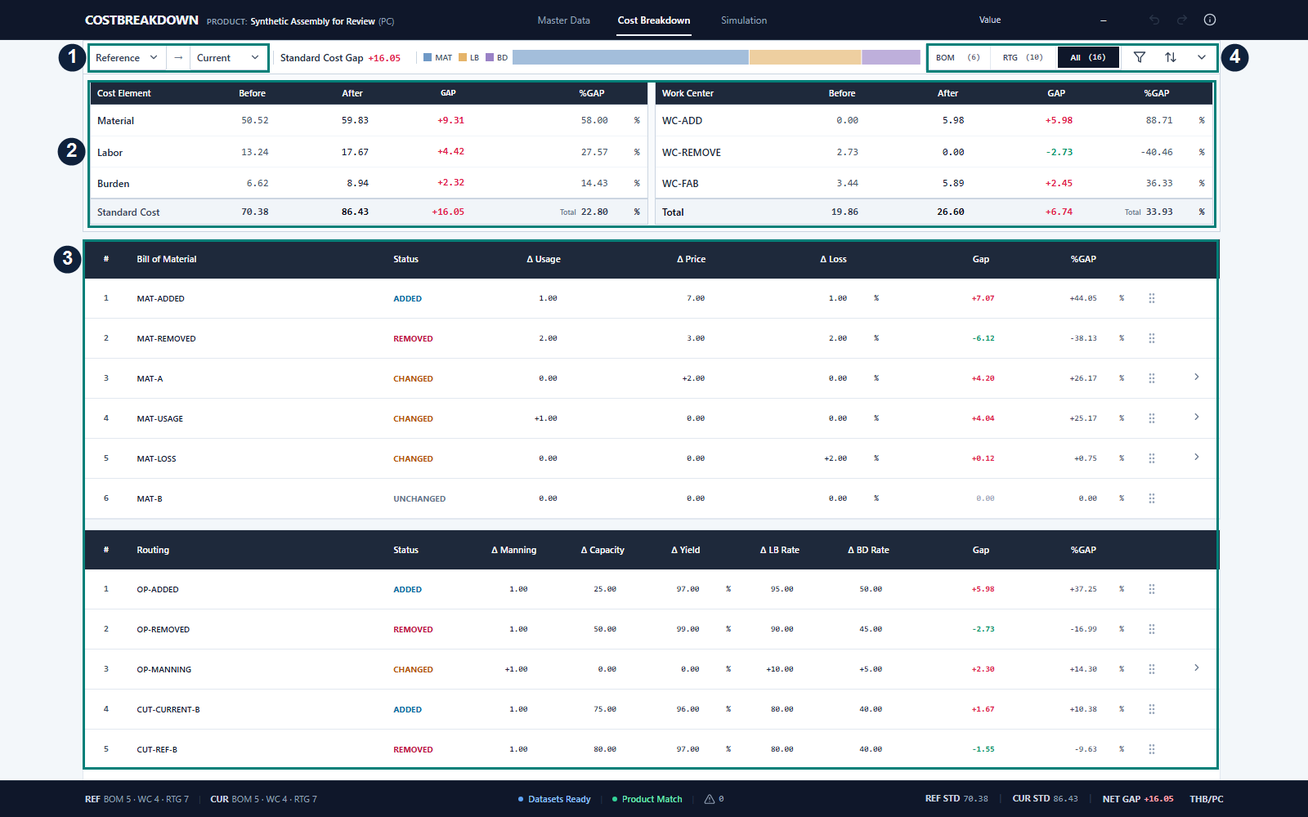
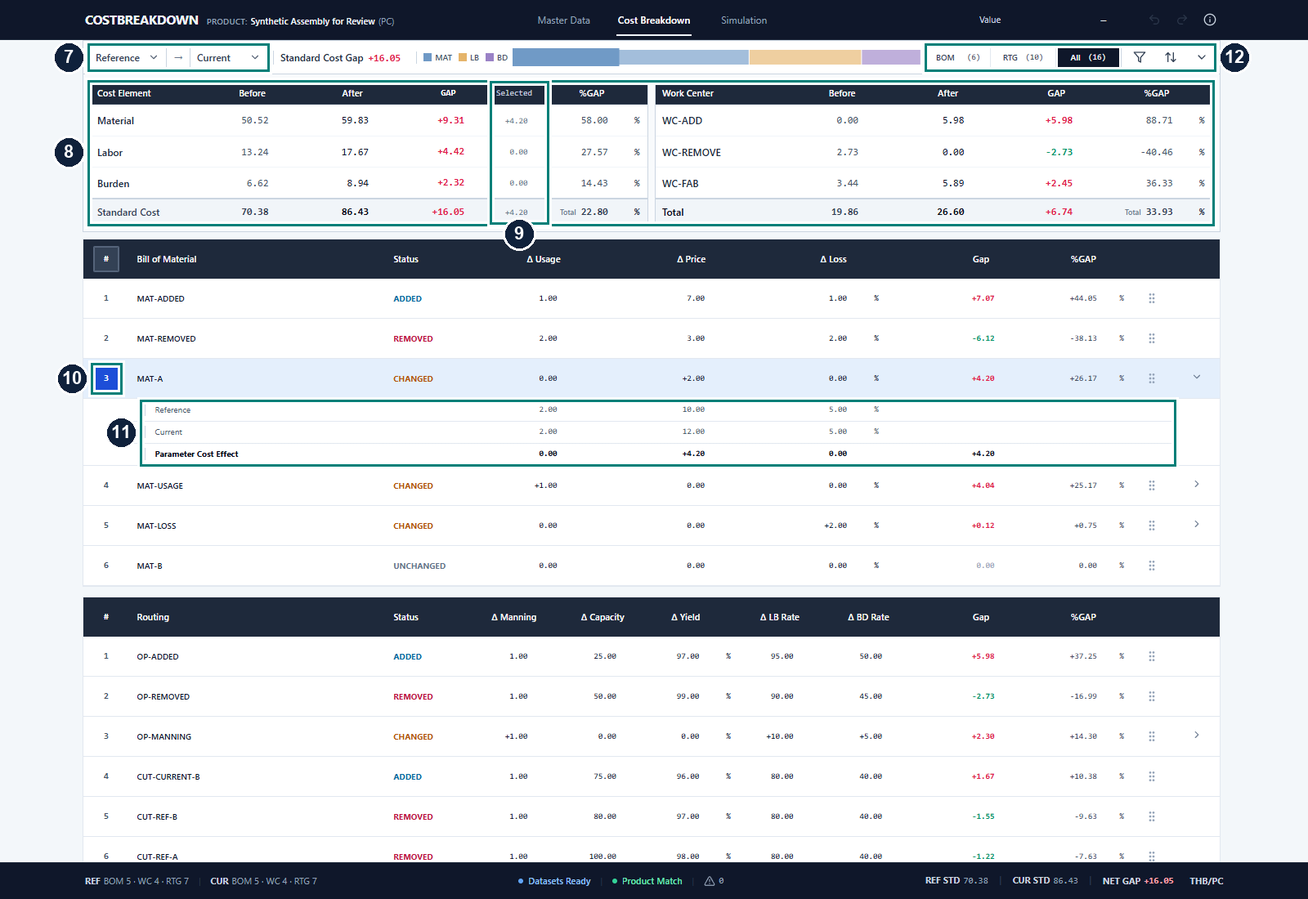
wip: documentation polish handoff

diff --git a/USER_GUIDE.md b/USER_GUIDE.md
@@ -1,192 +1,172 @@
 # COSTBREAKDOWN user guide
 
-Prepare your datasets, explain a cost difference, or test a proposed change. Use this guide for the task you are doing now.
+Prepare your data, choose an analysis, then keep the inputs you need.
 
-Screenshots use fictional example datasets. Open an image to view it at full size.
+[Master Data](#prepare-your-data) · [Cost Breakdown](#explain-a-cost-change) · [Simulation](#try-a-change) · [Keep your work](#keep-your-work)
 
-[Start](#start-and-finish-a-session) · [Prepare data](#prepare-your-datasets) · [Resolve issues](#resolve-warnings-and-blockers) · [Compare costs](#explain-a-cost-difference) · [Simulate](#try-a-what-if-scenario) · [Save and Export](#keep-your-work) · [Troubleshooting](#troubleshooting)
+Screenshots show the real app with example data. Numbers match the notes below each image. Open an image at full size to read small controls.
 
-## Start and finish a session
+## Open the app
 
-Extract the complete package, open your operating system's folder, and use **Start COSTBREAKDOWN**. Keep the package folders together. The launcher opens the app in your browser; starting the same package again reuses its running server.
+Extract the complete ZIP into a folder of your choice. Keep all package folders together.
 
-Choose a work area from the top navigation:
+- `Windows/`: open **Start COSTBREAKDOWN.exe**. Finish with **Stop COSTBREAKDOWN.exe**.
+- `macOS/`: open **Start COSTBREAKDOWN.app**. Finish with **Stop COSTBREAKDOWN.app**.
+- `Linux/`: open **Start COSTBREAKDOWN.desktop**. Finish with **Stop COSTBREAKDOWN.desktop**.
 
-| Work area | Use it for |
+Start opens the browser. Starting the same package again reuses its server. Closing a browser tab alone does not stop it.
+
+The Linux `.desktop` files are launchers. You can leave them in the package folder.
+
+## Prepare your data
+
+Open **Master Data**. Choose the dataset that should receive your changes before editing or importing.
+
+![Master Data in Edit mode with two BOM rows selected, a numeric field focused, and dataset controls visible.](docs/images/master-data.png)
+
+| Marker | What to do |
 |---|---|
-| Master Data | Prepare the inputs used by the analyses. |
-| Cost Breakdown | Explain the difference between two datasets. |
-| Simulation | Test proposed parameter changes and economic assumptions. |
+| 1 | Choose Reference, Current, or Custom. Each holds its own data. |
+| 2 | Use View/Edit and the dataset actions. Hover over an icon to see its name. |
+| 3 | Search rows. Choose BOM, WC, RTG, or All to change the table view. |
+| 4 | Select row numbers for group actions in Edit mode. Rows 1 and 3 are selected here. |
+| 5 | Use Value to preview supported numbers or edit the focused numeric field. |
+| 6 | Open Prepare Dataset to check readiness, warnings, and blockers. |
 
-Before ending a browser session, [export important datasets](#keep-your-work). Use the matching **Stop COSTBREAKDOWN** launcher from the same package when finished. Stop does not export data; closing a tab alone does not stop the server.
+Reference can hold your baseline, Current your latest inputs, and Custom an alternative. You can compare any two datasets.
 
-## Prepare your datasets
+### Enter data or use Excel
 
-### Choose where the data belongs
+Select the pencil for Edit mode. Enter the product details, then fill the tables:
 
-In **Master Data**, select **Reference**, **Current**, or **Custom** before editing or importing. Each is an independent dataset. A useful starting arrangement is an agreed baseline in Reference, the latest data in Current, and an alternative in Custom. Custom has no fixed business status.
-
-![Master Data: dataset choices at marker 1, View/Edit at 2, dataset actions at 3, search and table filters at 4, and editable tables at 5.](docs/images/master-data.png)
-
-Select the pencil control for **Edit** mode. Enter product information and work through the tables:
-
-| Table | Inputs to prepare |
+| Table | Inputs |
 |---|---|
 | BOM | Material, Usage, Unit, Price, and Loss. |
-| Work Centers (WC) | Work Center identity, Labor Rate, and Burden Rate. |
-| Routing (RTG) | Process, its Work Center, Manning, Capacity, and Yield. |
+| Work Centers (WC) | Work Center, Labor Rate, and Burden Rate. |
+| Routing (RTG) | Process, Work Center, Manning, Capacity, and Yield. |
 
-Routing must link to the intended Work Center in the same dataset. Use notes for context, search to find rows, and BOM / WC / RTG / All to control which tables are shown. You can add, delete, and reorder rows in Edit mode.
+Each Routing Work Center must refer to the intended center in the same dataset.
 
-### Start from another dataset
+To start from Excel:
 
-Select the **destination** dataset, open **Clone from**, and choose the source. For example, select Custom and clone from Current to prepare an alternative.
+1. Open **Sizing**, set the row counts, and choose **Download Template**.
+2. Fill the workbook in Excel. Keep the required sheets and headings.
+3. Select the destination dataset in Master Data and open **Import**.
+4. Choose your `.xlsx` file. Review its status, row counts, and warnings.
+5. Choose **Import** to apply a valid workbook. Selecting a file alone does not replace data.
 
-Clone replaces the destination's current **Working** values. Its **Last Saved** checkpoint stays unchanged. Review the destination before continuing.
+Import replaces the destination's Working data. Invalid workbooks cannot be applied. Expand **Import warnings** to read a long list.
 
-### Bring data in from Excel
+**Apply Sizing** changes row counts in Master Data. Download Template uses the form's counts without requiring Apply Sizing first. Limits are BOM 1,000, Work Centers 500, and Routing 500. Reducing counts removes rows from the end, so check your data first.
 
-1. Open **Sizing** in Master Data. Set the BOM, Work Center, and Routing row counts.
-2. Choose **Download Template**, then fill the workbook in Excel. Keep the required sheets and headings intact.
-3. Return to Master Data and select the **destination** dataset.
-4. Open **Import**, choose a compatible `.xlsx` file, and review the workbook summary and warnings.
-5. Choose **Import** in the dialog to apply a valid workbook. Selecting the file alone does not replace your data.
+To copy existing data, select the destination, open **Clone from**, and choose the source. For example, clone Current into Custom to prepare an alternative. Clone replaces the destination's Working data.
 
-![Import dialog showing the destination dataset and the area for choosing an Excel workbook.](docs/images/import.png)
+You can add, delete, and reorder rows in Edit mode. Selecting rows supports group actions; it does not limit analysis or Export.
 
-Import replaces the selected dataset's Working values and leaves Last Saved unchanged. An invalid workbook cannot be applied. If the warning list is long, expand **Import warnings** and scroll within it.
+### Check the data
 
-You can also use **Apply Sizing** to change row counts directly in Master Data. Download Template uses the counts in the form without requiring Apply Sizing first. The limits are **BOM 1,000**, **Work Centers 500**, and **Routing 500** rows. Review existing data before reducing a table's size. [View the Sizing dialog](docs/images/sizing.png).
+Open **i**, then expand a Warning or Blocker category. Select an affected location to reach its dataset, table, row, and field.
 
-## Resolve warnings and blockers
+- **Warnings:** review generated names and renamed duplicates.
+- **Blockers:** fill the required inputs identified by the issue.
 
-Open the header **i** button to view **Prepare Dataset**. Select a dataset row to filter its issues, then expand a Warning or Blocker category.
+The readiness indicator concerns Reference and Current. Custom's issues do not determine that pair's readiness. Check Product Match / Product Mismatch before comparing.
 
-![Prepare Dataset: the header i button at marker 1, dataset readiness at 2, and expandable issue categories at 3.](docs/images/prepare-dataset.png)
+**Saved** means Working matches Last Saved. **Draft** means it differs, or no checkpoint exists. These labels describe the checkpoint state, not whether the inputs are complete.
 
-| Issue | What to check |
+### Read and edit numbers
+
+Numbers may be shortened or use scientific notation. Hover over a supported number to preview it in **Value**. Click a read-only number to pin or unpin it.
+
+Focus an editable numeric field to see its input value. You can also edit that field through Value. Display formatting does not change stored values.
+
+## Explain a cost change
+
+Open **Cost Breakdown**. The default pair is Before = Reference and After = Current. Analysis uses current Master Data Working values, including unsaved edits.
+
+![Cost Breakdown with MAT-A selected, its Selected contribution visible, and its parameter details expanded.](docs/images/cost-breakdown.png)
+
+| Marker | What to do |
 |---|---|
-| Generated identity | A row received a generated name. Confirm that it identifies the intended material, Work Center, or process. |
-| Auto-renamed duplicate | A duplicate name was renamed. Check whether the rows represent distinct items and give them appropriate identities. |
-| Missing required value | Enter the required data shown by the Blocker. |
+| 7 | Choose Before and After. Either can use any of the three datasets. |
+| 8 | Read the cost overview and Work Center contributions. |
+| 9 | Read Selected beside the full Gap to see the contribution of chosen findings. |
+| 10 | Select a BOM or Routing row number. Select it again to remove it from the focus. |
+| 11 | Expand a CHANGED row to compare its inputs and Parameter Cost Effects. |
+| 12 | Choose BOM, RTG, or All. Filter and sort to find the rows you need. |
 
-Select an affected location to open the correct dataset and table, select the row, and focus the target field. Correct it in Edit mode, then review the issue list again. [See a field reached through an issue](docs/images/jump-to-field.png).
+**Standard Cost Gap = After − Before.** A positive Gap means After costs more. A negative Gap means it costs less.
 
-The overall readiness indicator concerns **Reference and Current**. Custom's issues are shown but do not determine that pair's readiness. Warnings call for review; Blockers can keep the pair from being ready. Check **Product Match / Product Mismatch** to confirm that you are comparing the intended product.
+In this example, the full Gap is **+16.05**. MAT-A contributes **+4.20**, caused by its Price changing from **10.00** to **12.00**. Selecting more findings combines their contributions while the full Gap stays visible.
 
-## Explain a cost difference
+For CHANGED rows, parameter columns show After minus Before. ADDED and REMOVED rows show values from the side where they exist. UNCHANGED rows have no business change.
 
-Open **Cost Breakdown** and choose **Before** and **After**. The default is **Reference → Current**; either side can use any of the three datasets. Analysis uses the latest Master Data **Working** values, so you can compare edits before saving a checkpoint.
+Changing the comparison pair or its source data clears the selected findings. Selected Comparison belongs to Cost Breakdown; it does not change data or control Simulation.
 
-**Standard Cost Gap = After − Before.** A positive Gap means After costs more; a negative Gap means it costs less. Standard Cost combines Material, Labor, and Burden.
+## Try a change
 
-Read the cost overview, then use the BOM and Routing findings to locate the contributors. The Work Center panel supplies conversion-cost context. Filter by table or status, and sort the findings as needed.
+Open **Simulation** to test a proposal. To test a copy of Current, clone it into Custom in Master Data first.
 
-Findings are marked **ADDED**, **REMOVED**, **CHANGED**, or **UNCHANGED**. Expand a changed finding to inspect Before, After, and **Parameter Cost Effect** details.
+A new Simulation starts with Custom active and Result set to Current → Custom.
 
-### Focus on a few findings
+![Simulation with Custom active, a changed BOM Price, and action costs and Batch Size entered.](docs/images/simulation.png)
 
-Select a numbered row button on the left of a BOM or Routing finding. The overview shows its **Selected** contribution beside the full Gap. Select more findings to study them together; select a row again to remove it from the focus.
-
-![Selected Comparison: marker 1 selects a finding; marker 2 shows its contribution beside the full Gap.](docs/images/selected-comparison.png)
-
-Here, the selected finding contributes **+4.20** to the full **+16.05** Standard Cost Gap. The full comparison remains visible.
-
-Changing the Before/After pair or its Working data clears the selected membership. Selected Comparison belongs to Cost Breakdown. It does not change Master Data or control Simulation.
-
-## Try a what-if scenario
-
-For a separate proposal, a useful starting point is **Master Data → Custom → Clone from → Current**. Then open **Simulation**. Simulation initially has **Custom active** and compares **Current → Custom** in Result.
-
-![Simulation: active dataset beneath Cost Structure at marker 1, Result comparison at 2, BOM and Routing parameters at 3 and 4, assumptions at 5, and Send/Reset at 6.](docs/images/simulation.png)
-
-### Choose the workspace and the comparison
-
-| Control | What it determines |
+| Marker | What to do |
 |---|---|
-| Underlined dataset beneath Cost Structure | The active dataset for editing, Send, and Reset. |
-| Before / After in Result | The two scenarios displayed in Result. |
+| 13 | Choose the active dataset below Cost Structure. The underlined dataset is used for editing, Send, and Reset. |
+| 14 | Choose the Before and After scenarios displayed in Result. |
+| 15 | Read Cost Structure. Use its legend to show or hide components; Show all restores them. |
+| 16 | Try BOM Price, Usage, and Loss, or Routing Manning, Capacity, and Yield. Expand rows for effect details. |
+| 17 | Set Selling Price, SG&A, action costs, and Batch Size for profit and break-even analysis. |
+| 18 | Send the active proposal to Master Data, or Reset that scenario. |
 
-Selecting a dataset beneath Cost Structure also sets Result's After dataset. You can then change the Result pair independently. **Send still follows the underlined active dataset**, even if Result's After selector shows another role.
+Choosing an active dataset also sets Result's After. You can then change the Result pair separately. **Send follows the active dataset, even when Result's After shows another dataset.**
 
-### Change the proposal and read the result
+Here, Custom's MAT-A Price is **11.00**, compared with **12.00** in its Master Data inputs. Result shows how the proposal changes cost and profit. Break-even compares cumulative parameter savings with total action cost across production quantities.
 
-Edit **BOM Price, Usage, and Loss**, or **Routing Manning, Capacity, and Yield**. Work Center rates, identities, and table structure are changed in Master Data. Simulation row statuses compare the active scenario with that role's Master Data basis.
+Select rows to bring them to the top of the scenario table. This does not filter Result or limit Send.
 
-Use the Business and Economic panel for **Selling Price**, **SG&A %**, **Variable Action Cost**, **Fixed Action Cost**, and **Batch Size**. These assumptions are used only by Simulation for profit and break-even analysis.
-
-- **Cost Structure** shows cost components and business outcomes across the datasets. Use the legend to show or hide components; Show all restores them.
-- **Result** compares the chosen Before and After scenarios, including Standard Cost and Operating Profit.
-- **Break-even** compares cumulative parameter savings with total action cost across production quantities. Review where the lines meet and the outcome at your Batch Size.
-
-Simulation starts from Master Data Working values. If you change a role's Working data in Master Data, that role's existing scenario is rebuilt from the updated basis. Review or finish the scenario before changing its source data.
-
-### Keep or discard the proposal
-
-To use the parameter changes, confirm the active dataset and choose **Send** (the paper-plane icon). Return to the **same role** in Master Data to review the result. Send copies supported BOM/Routing parameters into Working values; it leaves Last Saved unchanged. Selling Price / SG&A overrides, action costs, and Batch Size are not sent to Master Data. Updating the Working basis through Send can also reset that role's scenario assumptions.
-
-Use **Save** in Master Data to checkpoint the sent values, or **Export** to create an Excel copy.
-
-To discard the active scenario, choose **Reset**. It restores that role's parameter values to the current Master Data basis and restores its business/economic defaults. It keeps the active dataset and Result selectors unchanged.
-
-The secondary **Send all datasets** and **Reset all** actions are available by hovering over the control, or focusing it and pressing **Alt + Down Arrow**:
+### Use or discard the proposal
 
 | Action | Effect |
 |---|---|
-| Send all datasets | Sends each Simulation role's supported parameters to its matching Master Data Working role. |
-| Reset all | Resets all three scenarios and restores active Custom with Result Current → Custom. |
+| Send | Copies supported BOM/Routing parameters into the active dataset's Master Data Working values. |
+| Reset | Restores the active scenario from its current Master Data inputs and default assumptions. Keeps the active dataset and Result pair. |
+| Send all datasets | Sends each scenario's supported parameters to its matching Master Data dataset. |
+| Reset all | Resets all scenarios and restores active Custom with Result Current → Custom. |
 
-Simulation Reset actions leave Master Data unchanged.
+Hover over Send or Reset, or focus it and press **Alt + Down Arrow**, to access the all-dataset actions.
+
+Work Center rates, names, and row structure are edited in Master Data. Selling Price / SG&A overrides, action costs, and Batch Size stay in Simulation. Send does not copy them back.
+
+Changing a dataset's source Working data rebuilds its scenario and assumptions. This can also happen after Send. Review or record your proposal before changing its source data. Simulation Reset actions leave Master Data unchanged.
 
 ## Keep your work
 
-Working values, Last Saved checkpoints, and Simulation belong to the current browser session. There is no permanent shared database. **Export important work before ending the session.**
+Working data, checkpoints, and scenarios belong to the current browser session. Export the data you want to keep before ending the session.
 
-```mermaid
-flowchart TB
-    File["Excel workbook<br/>On your device"]
-    subgraph Session["Current browser session"]
-        Working["Master Data<br/>Working values"]
-        Saved["Last Saved"]
-        Compare["Cost Breakdown"]
-        Simulate["Simulation<br/>What-if values"]
-        Working -->|Save| Saved
-        Saved -->|Reset| Working
-        Working -->|Read| Compare
-        Working -->|Basis| Simulate
-        Simulate -->|"Send parameters"| Working
-    end
-    File -->|Import| Working
-    Working -->|Export| File
-```
+![Excel files are outside the browser session. Working data feeds both analyses; Save, Reset, and Send act within the session.](docs/images/data-session.svg)
 
-Each role has its own Last Saved checkpoint and Simulation scenario. Send returns supported parameters to the matching Working role.
-
-### Save a checkpoint during the session
-
-**Save** copies the selected Master Data dataset's Working values into Last Saved. **Reset** restores that checkpoint. If none exists, Reset uses the dataset's initial reset basis, which can be established by Import.
-
-**Clear** blanks editable Working values while keeping the table structure and Last Saved. Clone, Import, and Simulation Send also leave Last Saved unchanged. Use the header Undo/Redo controls to step through supported Master Data Working edits.
-
-Save, Reset, and Clear act on the selected role. Their all-dataset actions apply to Reference, Current, and Custom together; access them by hovering over the control or pressing **Alt + Down Arrow** while it has focus.
-
-### Export a file to keep or share
-
-In **Master Data**, select the dataset and choose **Export**. The workbook contains its current Working data, including unsaved edits and parameters received through Send. Repeat for each dataset you need to keep.
-
-Save does not create a file. Export does not require Save first. Cost Breakdown and Simulation have no separate Export command; send supported scenario parameters back to Master Data before exporting them. Simulation-only economic assumptions are not included through Send.
-
-## Troubleshooting
-
-| What happened | What to do |
+| Master Data action | Effect |
 |---|---|
-| The app does not open | Extract the complete ZIP and use your operating system's Start launcher. If needed, run the matching Stop from the same package, then Start again. |
-| The operating system blocks a launcher | Follow company security policy. The macOS apps are unsigned and not notarized; request an approved build if blocked. Some Linux desktop environments ask you to trust or allow a downloaded launcher first. Do not bypass security controls. |
-| Reference or Current is Incomplete | Open header i → Prepare Dataset, expand Blockers, and select an affected location. |
-| Import says Invalid | Use a compatible `.xlsx` workbook. Start with Download Template and preserve its required sheets and headings. |
-| A field cannot be edited | Check Master Data Edit mode, or the supported Simulation fields listed above. |
-| Send affected an unexpected role | Check the underlined active dataset beneath Cost Structure, then review that same role in Master Data. Result's After selector does not choose the Send destination. |
-| Data is missing in a new session | Import an exported workbook. Last Saved is a session checkpoint, not a permanent backup. |
-| Windows says the package folder is in use | Use that package's Stop launcher, then retry moving or deleting the folder. |
+| Save | Copies the active dataset's Working data into its Last Saved checkpoint. |
+| Reset | Restores Last Saved, or the initial reset state if no checkpoint exists. Import can establish that initial state. |
+| Clear | Blanks editable Working values while keeping the row structure. |
+| Export | Creates an Excel workbook from the active dataset's current Working values, including unsaved edits. |
 
-[Back to the product overview](README.md)
+Import, Clone, Clear, and Simulation Send leave Last Saved unchanged. Use the header Undo/Redo controls for supported Master Data Working edits.
+
+Save, Reset, and Clear act on the selected dataset. Hover over the control, or focus it and press **Alt + Down Arrow**, for the all-dataset action.
+
+Save does not create a file. Export does not require Save first. To keep a proposal's parameters, Send them to Master Data before Export. Record Simulation-only assumptions separately.
+
+## Help opening the app
+
+| Problem | What to do |
+|---|---|
+| The app does not open | Extract the complete ZIP. Run the matching Stop, then Start again. |
+| macOS blocks the app | The app bundles are unsigned and not notarized. Ask your administrator for an approved build. |
+| Linux asks you to trust a launcher | Follow your company's desktop security policy. The `.desktop` file can stay inside the package. |
+| Windows says the folder is in use | Use that package's Stop launcher before moving or deleting its folder. |
+
+[Back to COSTBREAKDOWN](README.md)

diff --git a/README.md b/README.md
@@ -1,53 +1,35 @@
 # COSTBREAKDOWN
 
-Understand what changed in product cost, then test the changes you want to make.
+See why product cost changed. Test changes before you apply them.
 
-COSTBREAKDOWN compares material, labor, and burden costs across datasets. Prepare data in the app or Excel, trace the cost difference to individual materials and operations, and try a what-if scenario before applying it.
+Prepare product data, compare material, labor, and burden costs, and test proposed changes in one local app.
 
-![Cost Breakdown showing Before and After datasets, the Standard Cost Gap, and the materials and operations contributing to it.](docs/images/cost-breakdown.png)
+## How it works
 
-[Get started](#get-started) · [Explore the workflow](#from-cost-data-to-a-decision) · [Read the user guide](USER_GUIDE.md)
+![Import Excel data into Master Data, compare costs or try changes, then Export the inputs you want to keep.](docs/images/user-journey.svg)
 
-## From cost data to a decision
+Start with Master Data. Use Cost Breakdown to explain a change, or Simulation to try a proposal. Use either path or both. Simulation can send supported changes back to Master Data when needed.
 
-Start with the question you need to answer: **What changed?** or **What if we changed it?**
+## What you can do
 
-```mermaid
-flowchart TB
-    Prepare["Master Data<br/>Prepare and check datasets"] --> Compare["Cost Breakdown<br/>Explain cost changes"]
-    Prepare --> Simulate["Simulation<br/>Try proposed changes"]
-    Compare --> Keep["Master Data<br/>Review and Export"]
-    Simulate -->|"Send changes if needed"| Keep
-    Keep --> Excel["Excel workbook<br/>Keep or share your data"]
-```
-
-This is a suggested working order ([static overview](docs/images/user-journey.svg)). Cost Breakdown and Simulation are separate analysis paths. After Simulation, Send transfers supported parameter changes to Master Data so you can review and export them.
-
-## Find the answer you need
-
-| Your question | Where to work |
-|---|---|
-| Is my cost data ready? | **Master Data:** prepare Reference, Current, and Custom; check missing values and identity warnings. |
-| Why did the cost change? | **Cost Breakdown:** compare any two datasets and trace the Gap through BOM and Routing findings. |
-| How much did these items contribute? | **Selected Comparison:** focus on chosen findings within Cost Breakdown while keeping the full Gap visible. |
-| Would a proposed change pay off? | **Simulation:** adjust supported parameters and economic assumptions; review cost, profit, and break-even results. |
-| How do I keep or share the inputs? | **Excel:** download a template, import a compatible workbook, or export the current Master Data dataset. |
+- **Master Data:** enter data, import Excel workbooks, check missing inputs, and prepare Reference, Current, and Custom datasets.
+- **Cost Breakdown:** compare two datasets and find which materials and operations caused the cost change.
+- **Simulation:** try parameter changes and review their effect on cost, profit, and break-even quantity.
 
 ## Get started
 
-1. Download the package supplied to you and **extract the complete ZIP**. Keep its folders together.
-2. Open the folder for your operating system: `Windows`, `macOS`, or `Linux`.
-3. Use its **Start COSTBREAKDOWN** launcher. The app opens in your browser.
-4. Begin in **Master Data**, or follow [Prepare your datasets](USER_GUIDE.md#prepare-your-datasets) for an Excel-based starting point.
+Extract the complete ZIP wherever you want to keep the app. Keep its folders together.
 
-When finished, export the datasets you need and use the matching **Stop COSTBREAKDOWN** launcher from the same package. Closing the browser tab alone can leave the local server running.
+- In `Windows/`, open **Start COSTBREAKDOWN.exe**.
+- In `macOS/`, open **Start COSTBREAKDOWN.app**.
+- In `Linux/`, open **Start COSTBREAKDOWN.desktop**.
 
-End users do not need Node.js, npm, Go, or development tools. See [Troubleshooting](USER_GUIDE.md#troubleshooting) if your operating system prevents a launcher from opening.
+The app opens in your browser. No development tools or extra runtime installation are needed.
 
-## Keep an Excel copy
+On Linux, `.desktop` means an application launcher. You can leave it in the package folder without moving it to your desktop.
 
-**Save creates a checkpoint in the current browser session. Export creates an Excel file you can keep.**
+Before you finish, **Export** the datasets you need. **Save** keeps a checkpoint in the browser session; it does not create a file.
 
-The app runs through a local loopback server and stores working data in the browser session. It has no permanent shared database. Export important work before ending the session.
+Use **Stop COSTBREAKDOWN** from the same OS folder when finished. Its extension matches Start. Closing the browser tab alone leaves the server running.
 
-[Open the user guide](USER_GUIDE.md) for importing data, resolving issues, comparing costs, and sending Simulation changes back to Master Data.
+[Read the user guide](USER_GUIDE.md) for the controls, examples, and help opening the app.
